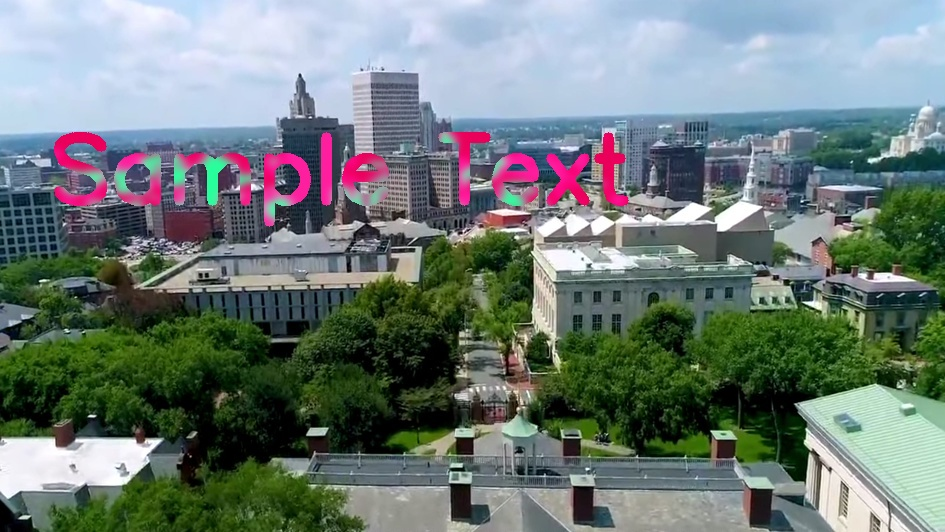
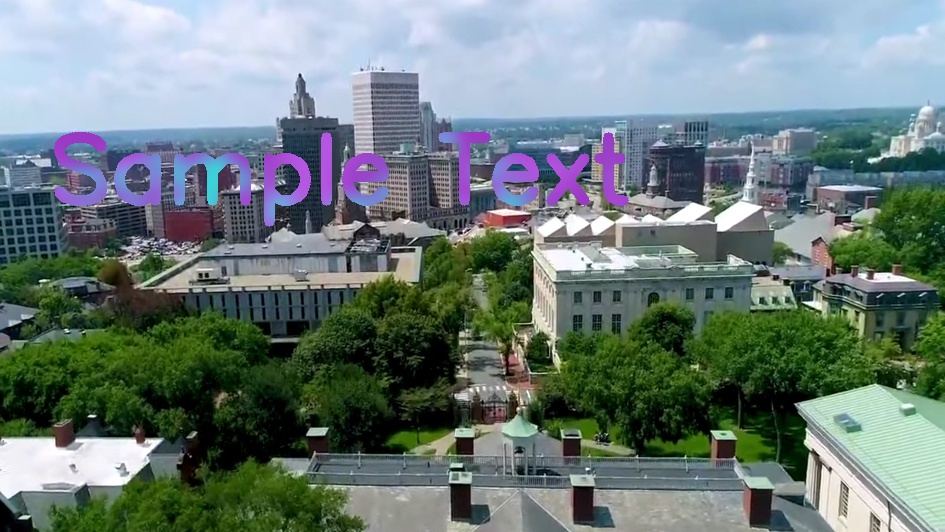
added ability to interpolate between max distance LAB color and a desired color

Changed region(s): [[0.0307, 0.2406, 0.4296, 0.4211], [0.4603, 0.2406, 0.6751, 0.391]]

diff --git a/cielab_boundary.py b/cielab_boundary.py
@@ -14,7 +14,6 @@ from matplotlib import cm
 from scipy.ndimage import sobel
 
 error_threshold = 1e-6
-sobel_threshold = 0
 res = 10 # resolution of points from CIELAB space
 
 # start with all possible values in the space (+10 padding just in case)
@@ -31,7 +30,7 @@ sobel_x = sobel(thresh, axis=0)
 sobel_y = sobel(thresh, axis=0)
 sobel_z = sobel(thresh, axis=0)
 sobel_magsq = sobel_x ** 2 + sobel_y ** 2 + sobel_z ** 2
-boundary = grid[sobel_magsq > sobel_threshold]
+boundary = grid[sobel_magsq > 0]
 
 # find point on boundary with maximum distance from a single color
 def max_dist(col):
@@ -40,28 +39,41 @@ def max_dist(col):
     return boundary[index]
 
 # equivilant to previous function but applies max distance to each pixel in an RGB image
-def maximize_contrast(img):
+def maximize_contrast(img, goal=None, thresh=500):
+    
+    candidates = boundary
+    if goal is not None:
+        goal = color.rgb2lab(goal)
+        candidates = candidates[np.sum((goal - candidates) ** 2, axis=1) < thresh * thresh]
+
     # vectorize computation of subtracting each element
-    repeated = boundary.repeat((img.shape[0] * img.shape[1])).reshape((*boundary.shape, img.shape[1], img.shape[0]))
+    repeated = candidates.repeat((img.shape[0] * img.shape[1])).reshape((*candidates.shape, img.shape[1], img.shape[0]))
     distsq = np.sum((img.T - repeated)**2, axis=1)
     index = np.argmax(distsq, axis=0)
-    contrast_bg = boundary[index.T]
+    contrast_bg = candidates[index.T]
 
     return contrast_bg
 
-# # Code for plotting the boundary, was useful in verifying that 
-# # convolution method was working:
+# Code for plotting the boundary, was useful in verifying that 
+# convolution method was working:
+if __name__ == '__main__':
+    fig = plt.figure(figsize=(10, 10))
+    ax = fig.add_subplot(111, projection='3d')
 
-# fig = plt.figure(figsize=(10, 10))
-# ax = fig.add_subplot(111, projection='3d')
+    colors = color.lab2rgb(boundary)
 
-# img = ax.scatter(boundary[:, 0], boundary[:, 1], boundary[:, 2], marker='.', s=30, color="green")
-  
-# # adding title and labels
-# ax.set_title("Boundary of LAB colorspace")
-# ax.set_xlabel('L*')
-# ax.set_ylabel('a*')
-# ax.set_ylabel('b*')
-  
-# # displaying plot
-# plt.show()
+    ax.scatter(boundary[:, 0], boundary[:, 1], boundary[:, 2], marker='.', s=50, color=colors)
+    
+    red = color.rgb2lab([1., 0., 0.])
+    green = color.rgb2lab([0., 1., 0.])
+    blue = color.rgb2lab([0., 0., 1.])
+
+    ax.scatter([red[0], green[0], blue[0]], [red[1], green[1], blue[1]], [red[2], green[2], blue[2]], color=["red", "green", "blue"], s=200)
+    
+    ax.set_title("Boundary of LAB colorspace")
+    ax.set_xlabel('L*')
+    ax.set_ylabel('a*')
+    ax.set_ylabel('b*')
+    
+    # displaying plot
+    plt.show()

diff --git a/text_demo.py b/text_demo.py
@@ -1,10 +1,11 @@
 import numpy as np
 import cv2
 import contrast
+from skimage import color
 
 # demo for using contrast.py functions to create an image
 filename = "sample_scene.jpg"
-blur_amt = 85
+blur_amt = 35
 
 bg = cv2.imread(f"./img/{filename}") / 255
 text = np.zeros_like(bg)
@@ -13,14 +14,15 @@ cv2.putText(text, "Sample Text", (50, 200), cv2.FONT_HERSHEY_SIMPLEX, 3, (1, 1, 
 text_matte = np.repeat(text[:, :, 0], 3).reshape(text.shape)
 # contrast_text_HSV = contrast.increase_contrast_HSV(bg)
 # contrast_text_CIELAB = contrast.increase_contrast_CIELAB(bg)
-max_contrast_text_CIELAB = contrast.maximize_contrast_CIELAB(bg)
-max_contrast_text_CIELAB = cv2.GaussianBlur(max_contrast_text_CIELAB, (blur_amt, blur_amt), 10)
+contrast_LAB = contrast.maximize_contrast_CIELAB(bg, scale=0.2, goal=np.array([.25, .52, .96]), interp=0.5)
+contrast_LAB = cv2.GaussianBlur(contrast_LAB, (blur_amt, blur_amt), 10)
 # max_contrast_text_CIELAB
 
 
 # composite_HSV = contrast_text_HSV * text_matte + bg * (1 - text_matte)
 # composite_CIELAB = contrast_text_CIELAB * text_matte + bg * (1 - text_matte)
-composite_CIELAB2 = max_contrast_text_CIELAB * text_matte + bg * (1 - text_matte)
+# composite_LAB = contrast_LAB
+composite_LAB = contrast_LAB * text_matte + bg * (1 - text_matte)
 # cv2.imwrite("./results/sample_scene_contrast_HSV.jpg", (composite_HSV * 255).astype(int))
 # cv2.imwrite("./results/sample_scene_contrast_CIELAB.jpg", (composite_CIELAB * 255).astype(int))
-cv2.imwrite("./results/max_contrast_LAB.jpg", (composite_CIELAB2 * 255).astype(int))
+cv2.imwrite("./results/max_contrast_LAB.jpg", (composite_LAB * 255).astype(int))

diff --git a/contrast.py b/contrast.py
@@ -48,15 +48,19 @@ def increase_contrast_CIELAB(bg, hue=0.33, sat=0.8):
 """
 Tries to find the furthest possible color in CIELAB space from each pixel in the image
 """
-def maximize_contrast_CIELAB(bg, scale=0.1):
+def maximize_contrast_CIELAB(bg, scale=0.1, goal=None, interp=1):
     # convert to LAB space
     bg_lab = color.rgb2lab(bg)
     
     # finding opposite of every color is slow so reduce resolution by some scale factor
     bg_lab = cv2.resize(bg_lab, (int(bg.shape[0] * scale), int(bg.shape[1] * scale)))
-    contrast_bg = cielab_boundary.maximize_contrast(bg_lab)
+    contrast_bg = cielab_boundary.maximize_contrast(bg_lab) #, goal=goal, thresh=thresh)
     contrast_bg = cv2.resize(contrast_bg, (bg.shape[1], bg.shape[0]))
+    
+    if goal is not None:
+        goal = color.rgb2lab(goal[::-1]) # not sure why it has to be backwards
+        print(goal)
+        contrast_bg = contrast_bg * (1 - interp) + goal * interp
 
     bg_rgb = color.lab2rgb(contrast_bg)
- 
     return bg_rgb

diff --git a/webcam.py b/webcam.py
@@ -33,7 +33,7 @@ while(True):
     text_matte = np.repeat(text[:, :, 0], 3).reshape(text.shape)
 
     # use our custom function to increase contrast of text pixels
-    contrast_bg = contrast.maximize_contrast_CIELAB(frame, 0.2)
+    contrast_bg = contrast.maximize_contrast_CIELAB(frame, scale=0.2, goal=np.array([.25, .52, .96]), interp=0.5)
     contrast_bg = cv2.GaussianBlur(contrast_bg, (blur_amt, blur_amt), 10)
 
     # add text on top of image using alpha matte
